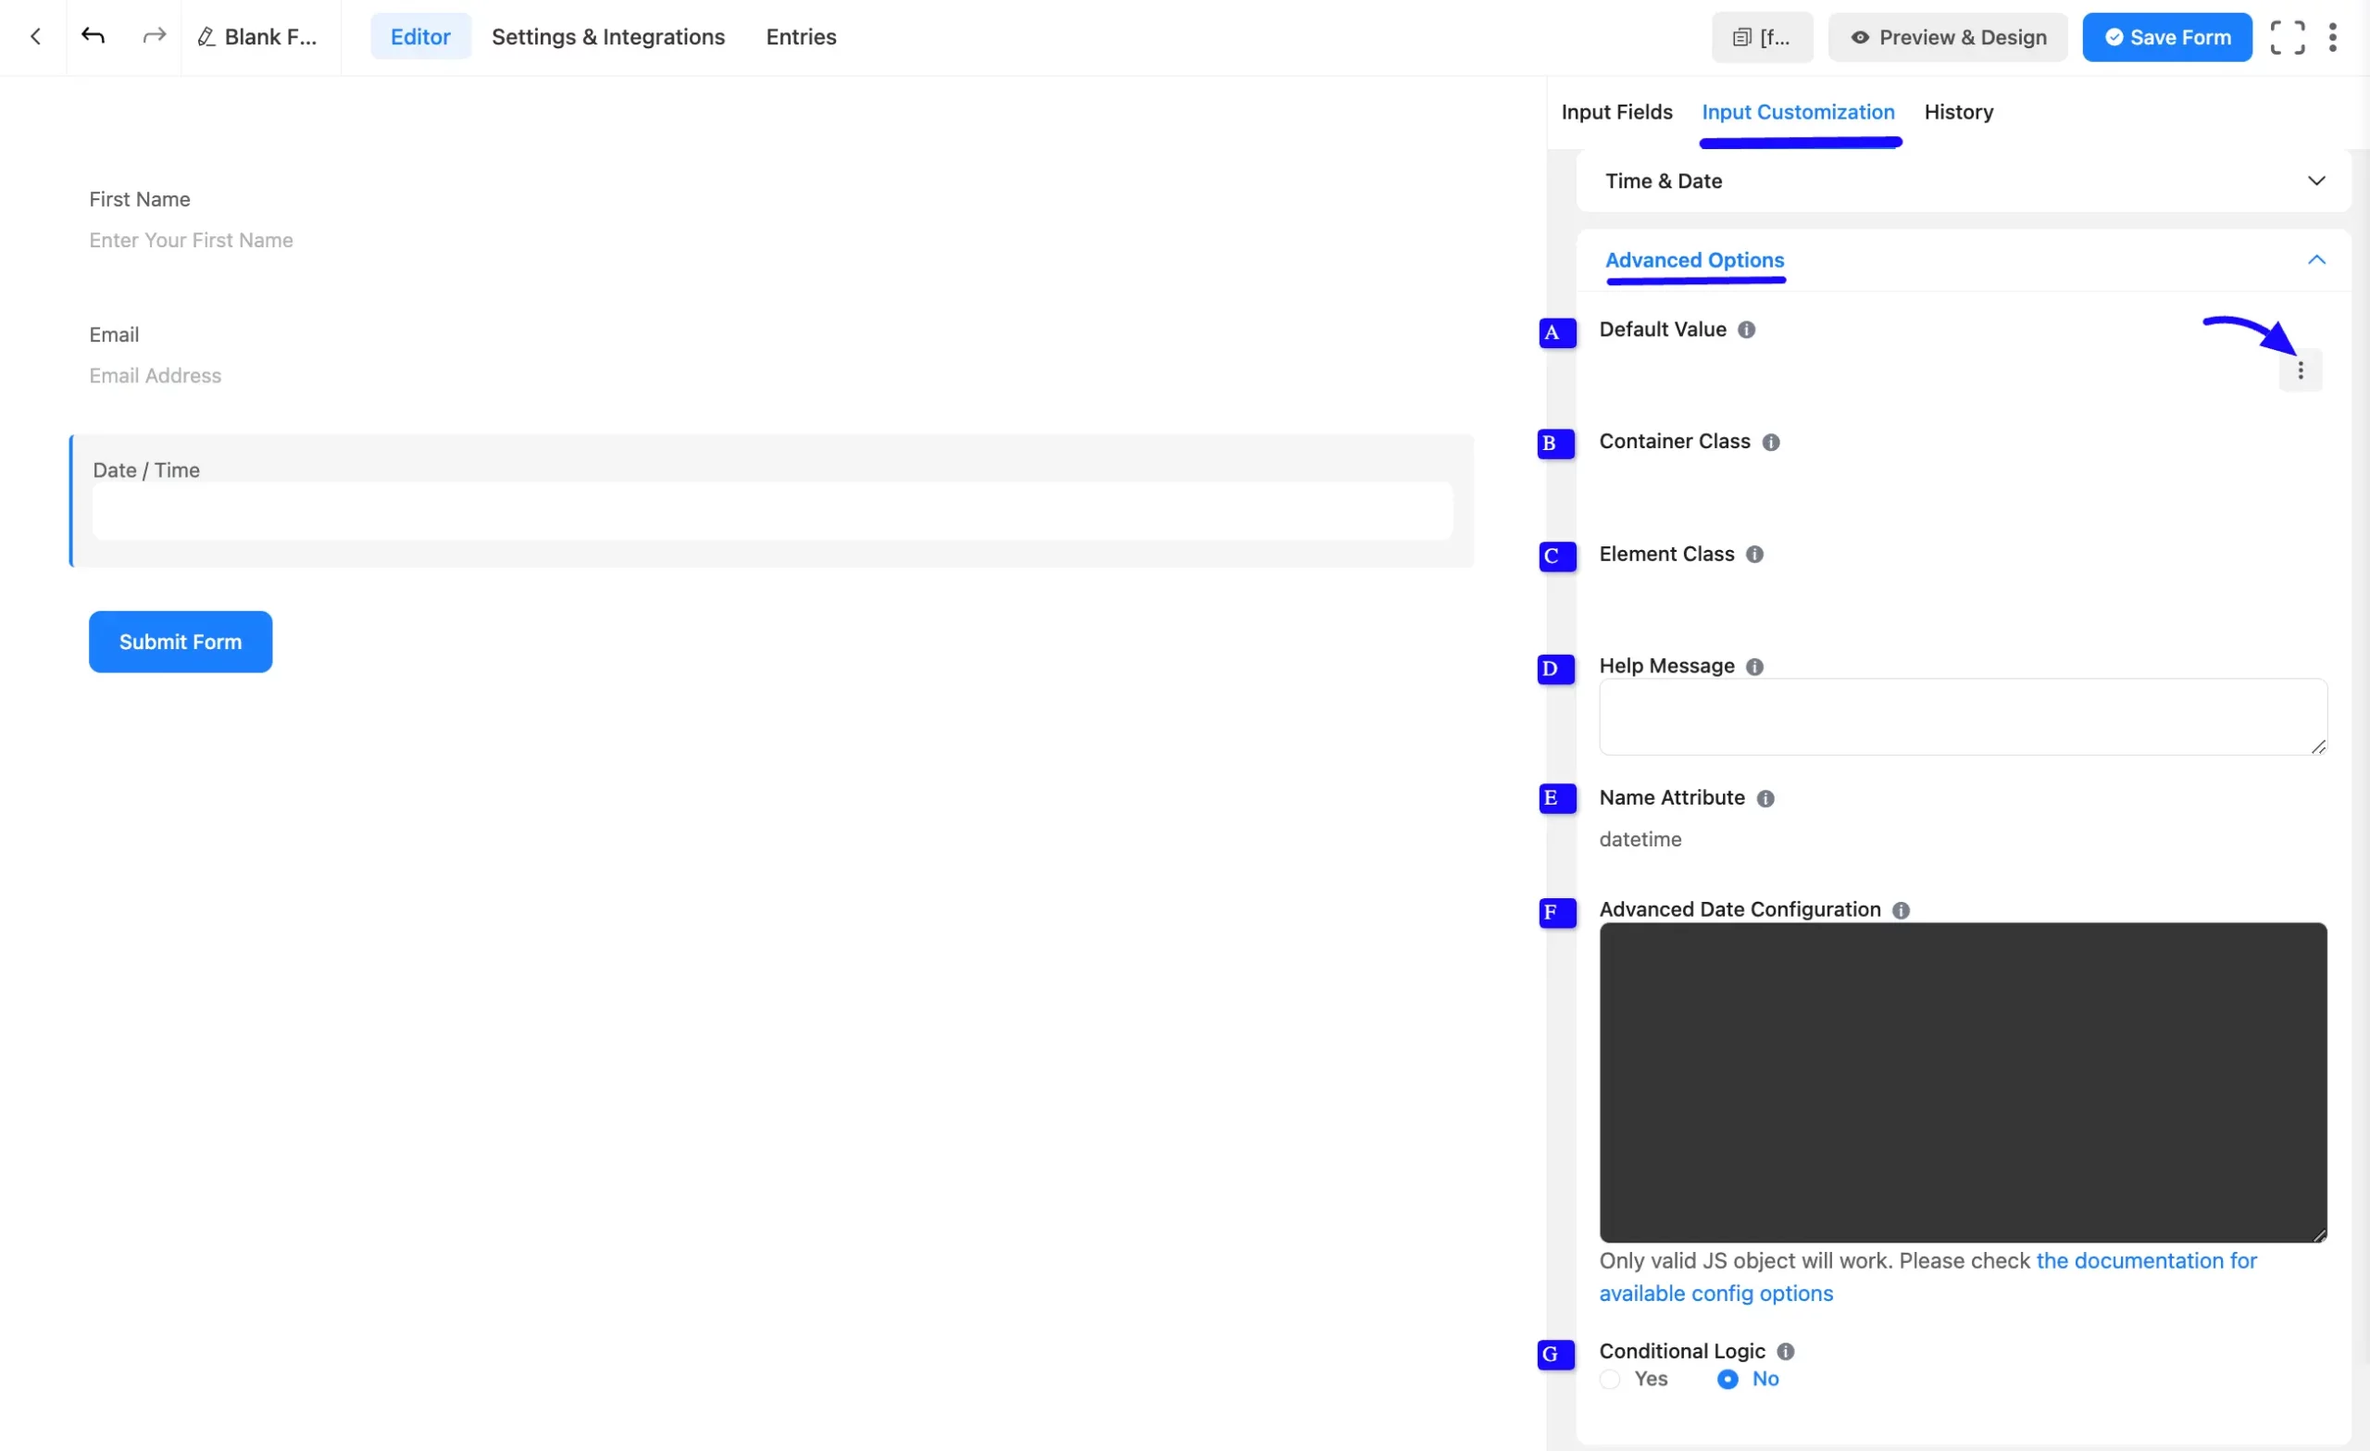
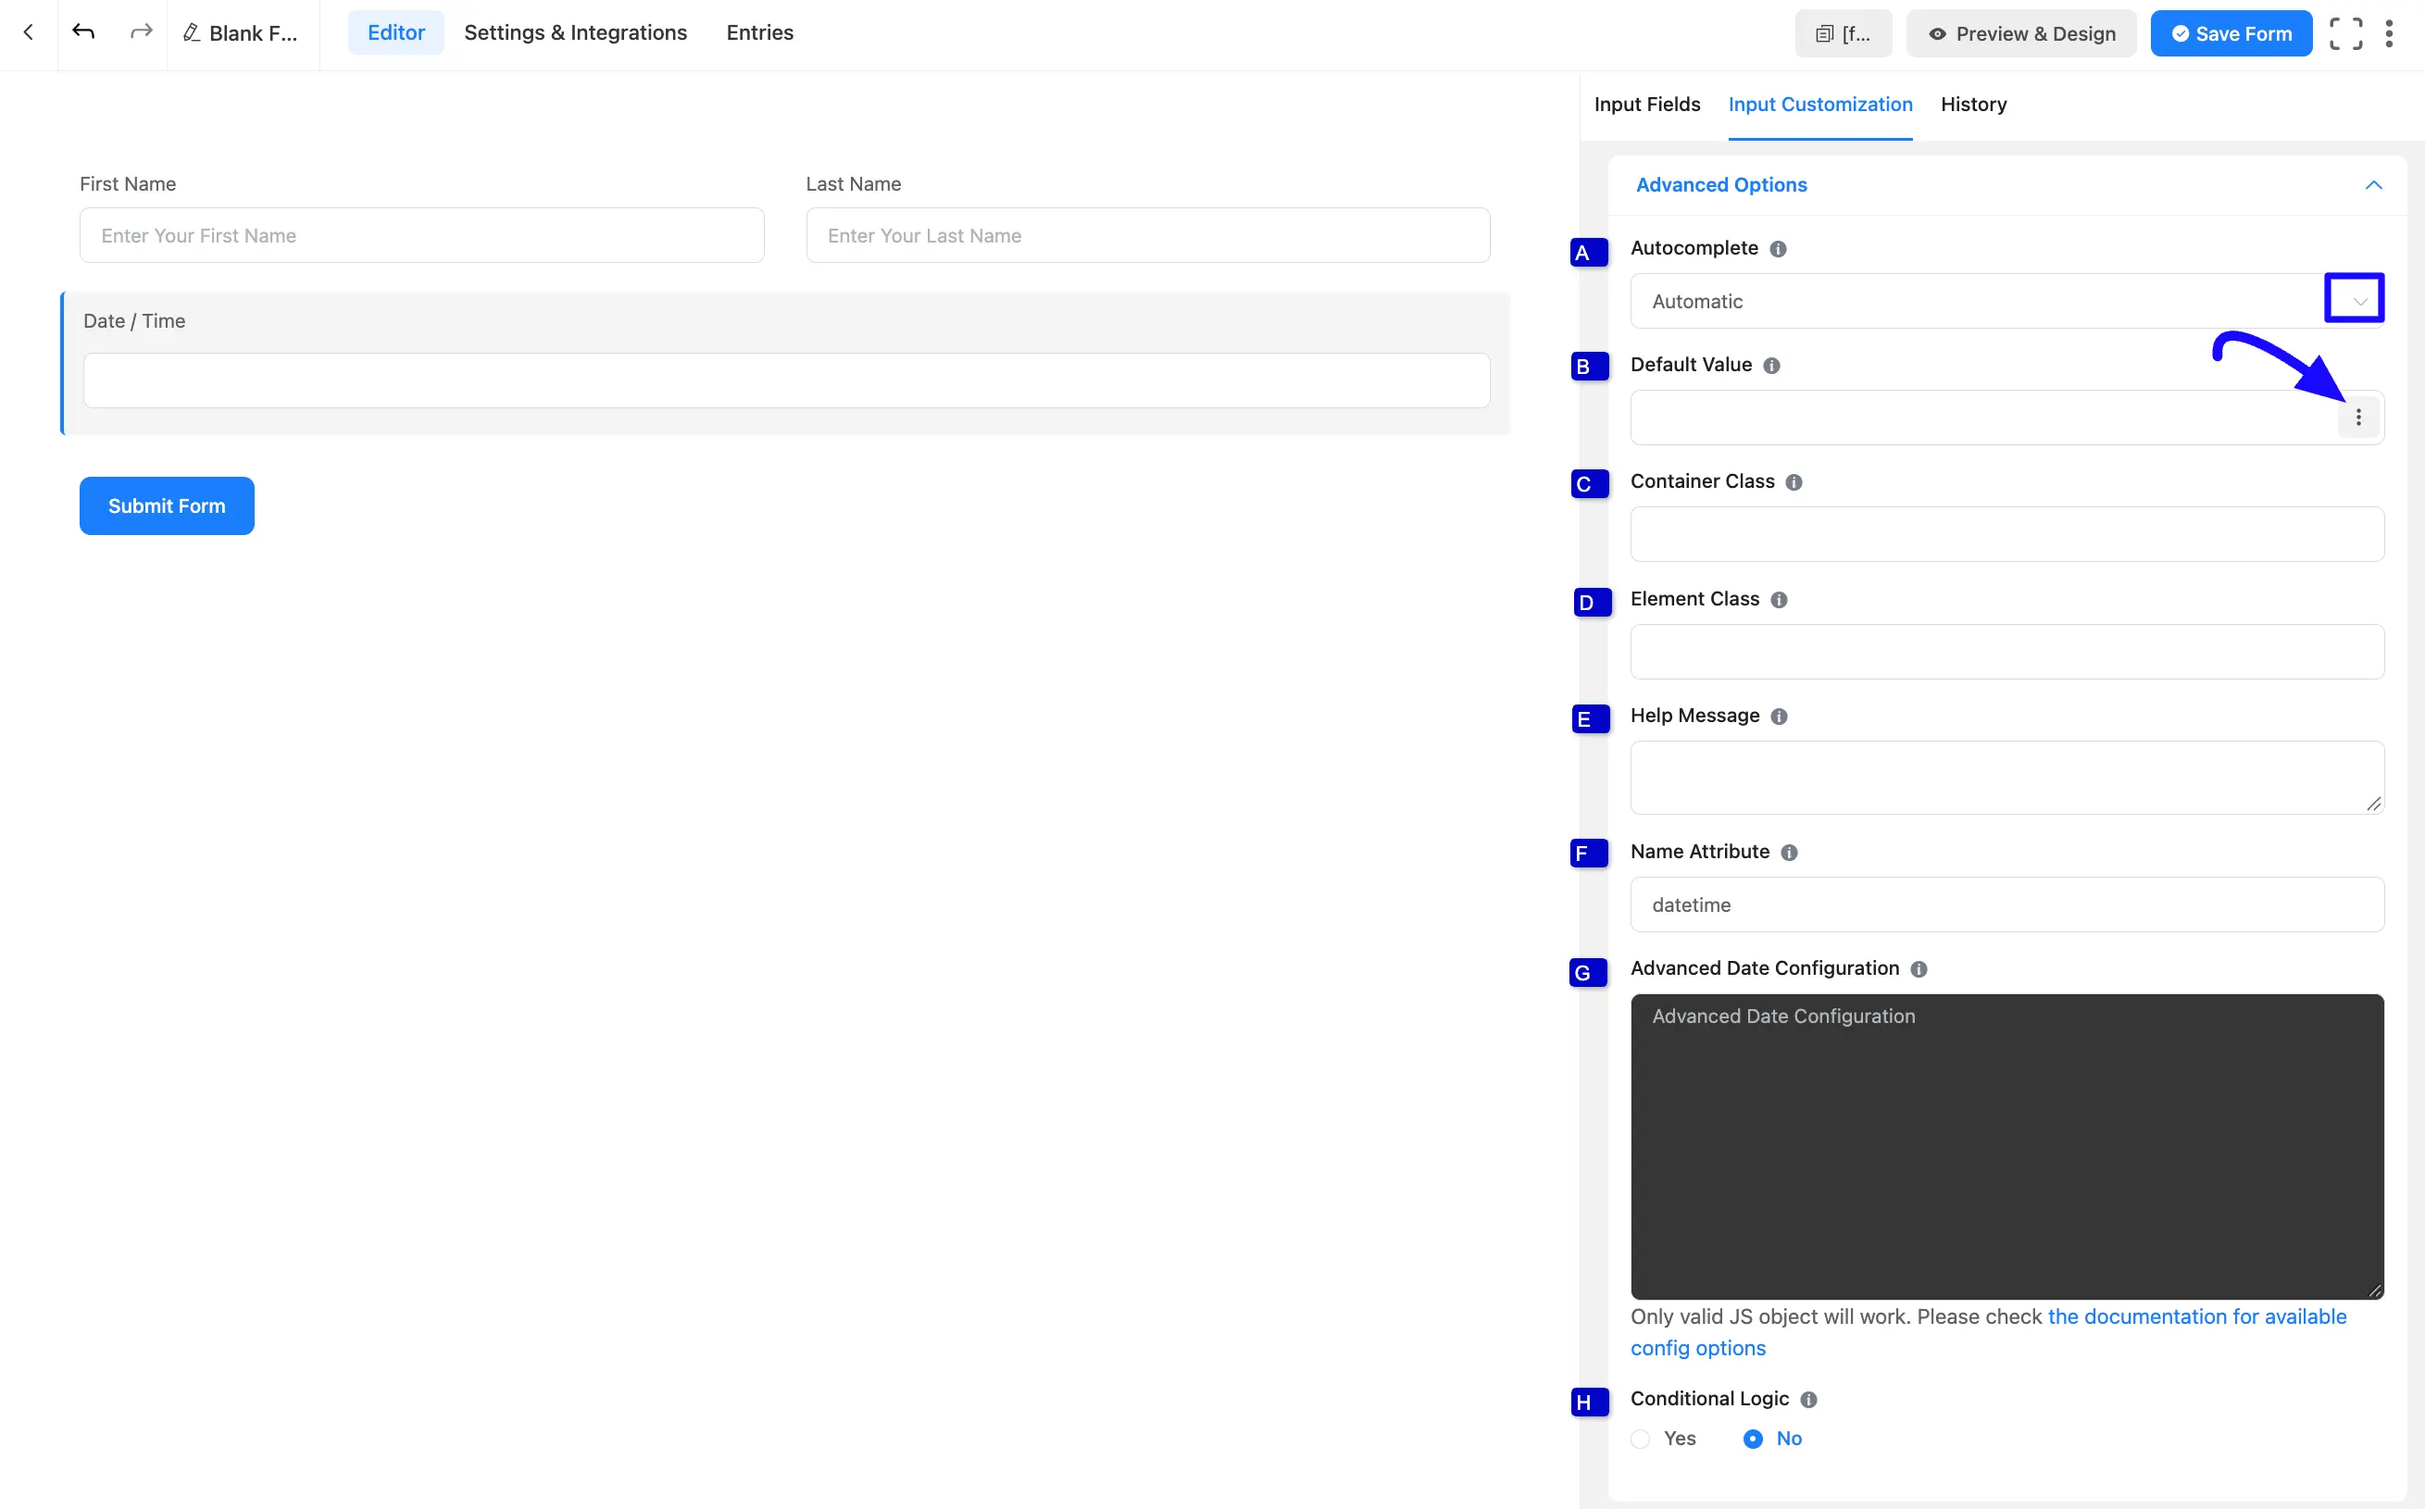
descriptiona nd image update Time & Date Input Field doc

diff --git a/docs/form-fields/general-fields/time-date-input-field.md b/docs/form-fields/general-fields/time-date-input-field.md
@@ -56,19 +56,19 @@ You will find various settings options for customizing the field. Located in the
 
 Advanced settings allow further customization to meet specific use cases.
 
-**A. Default Value:** Using our shortcodes, you can manually set any fixed value in your field and pre-fill your input field dynamically. You can add default values with the **Three-Dot** option from the right side. Read [Dynamic Default Value in Fluent Forms](/dynamic-default-value) to better understand Dynamic Default values.
+**A. Autocomplete:** Choose a value that tells the browser what the field collects, so it can offer saved details. Options are **Automatic**, **off**, **None**, or a specific value. To learn more, read [Autocomplete for Form Fields](/autocomplete-for-form-fields).
 
-**B. Container Class:** Use this option to add your custom CSS classes to the field’s wrapper.
+**B. Default Value:** Using our shortcodes, you can manually set any fixed value in your field and pre-fill your input field dynamically. You can add default values with the **Three-Dot** option from the right side. Read [Dynamic Default Value in Fluent Forms](/dynamic-default-value) to better understand Dynamic Default values.
 
-**C. Element Class:** Add custom CSS classes to the input field.
+**C. Container Class:** Use this option to add your custom CSS classes to the field’s wrapper.
 
-**D. Help Message:** This option allows you to guide your user thoroughly. Add your text here, which will be shown as a help message to the user.
+**D. Element Class:** Add custom CSS classes to the input field.
 
-**E. Name Attribute:** The input field’s name attribute is the HTML equivalent of the same name. You don’t need to modify this.
+**E. Help Message:** This option allows you to guide your user thoroughly. Add your text here, which will be shown as a help message to the user.
 
-![Advanced Options Fluent Forms](/images/form-fields/general-fields/time-date-input-field/Advanced-Options-05-15-scaled.webp)
+**F. Name Attribute:** The input field’s name attribute is the HTML equivalent of the same name. You don’t need to modify this.
 
-**F. Advanced Data Configuration:** Fluent Forms uses the [**Flatpickr**](https://flatpickr.js.org/) **JavaScript library** for the **Date & Time Picker**. Advanced users can modify field settings using custom configuration objects. 
+**G. Advanced Date Configuration:** Fluent Forms uses the [**Flatpickr**](https://flatpickr.js.org/) **JavaScript library** for the **Date & Time Picker**. Advanced users can modify field settings using custom configuration objects. 
 
 For instance, you can add the start of the week date. You can do this with the help of a custom code. By default, the week starts on **Sunday**. To set it to **Monday**, use this custom code given below:
 
@@ -121,6 +121,10 @@ For instance, you can add the start of the week date. You can do this with the h
 | parseDate | Function | false | Function that expects a date string and must return a Date object |
 | position | String | “auto” | Where the calendar is rendered relative to the input."auto", "above" or "below" |
 | prevArrow | String | 
+
+**H. Conditional Logic:** This option allows you to create specific rules to dynamically hide/show the input field to function conditionally based on your submission values according to your set of conditional logics. To learn more, read [Set up Forms with Conditional Logic in Fluent Forms](/set-up-forms-with-conditional-logic).
+
+![Advanced Options Fluent Forms](/images/form-fields/general-fields/time-date-input-field/Advanced-Options-05-15-scaled.webp)
 
 ### Preview of Added Time & Date Field
 
